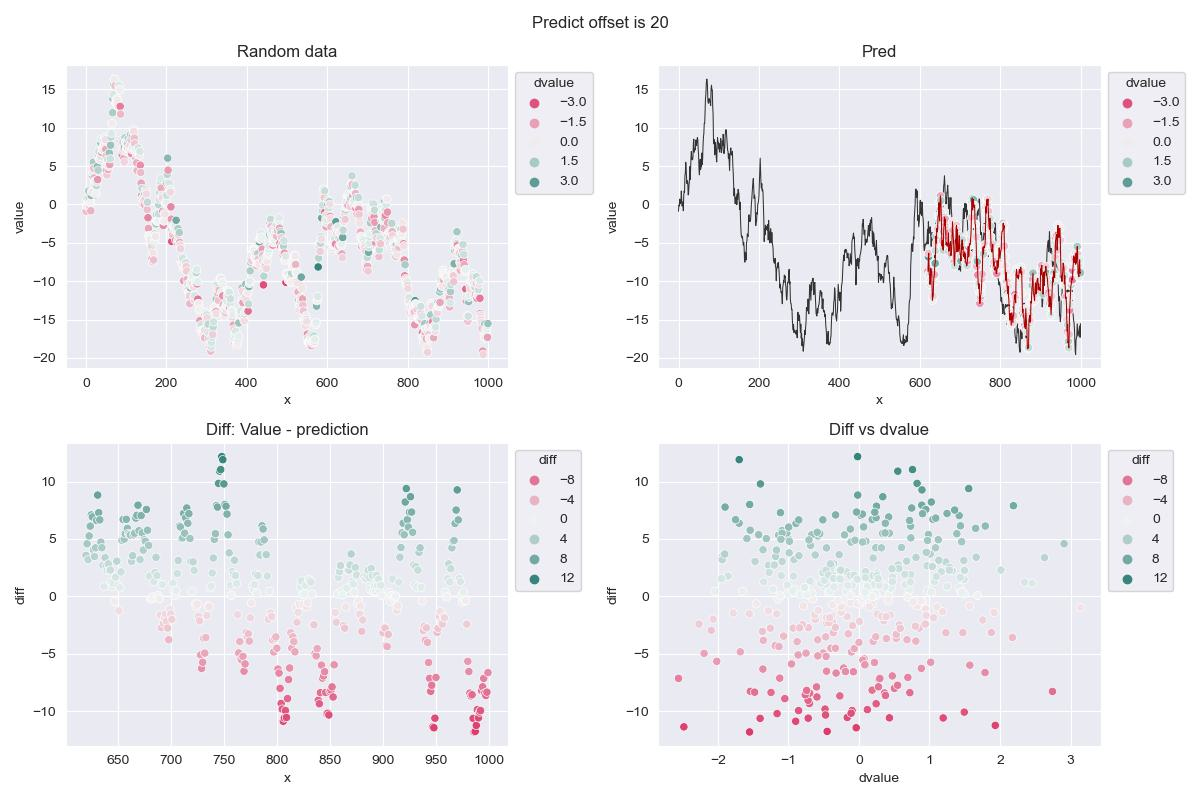
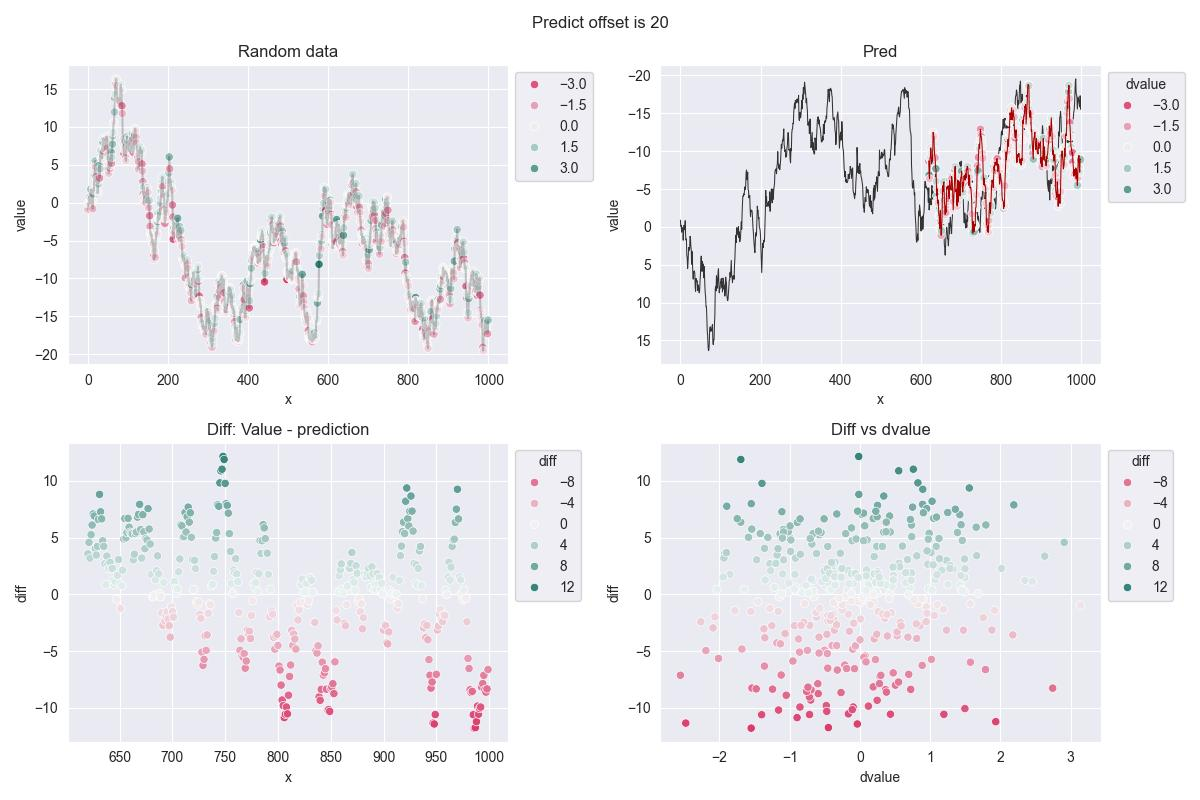
Develop update

diff --git a/Predict-random-walk/gaussian_process.py b/Predict-random-walk/gaussian_process.py
@@ -19,6 +19,7 @@ Functions:
 # %% ---- 2024-05-13 ------------------------
 # Requirements and constants
 import argparse
+import matplotlib
 import contextlib
 
 import numpy as np
@@ -75,6 +76,7 @@ def fit(df: pd.DataFrame):
     df.loc[testing_index, 'meanPred'] = mean_prediction
     df.loc[testing_index, 'stdPred'] = std_prediction
     df.loc[training_index, 'training'] = True
+    df['diff'] = df['value'] - df['meanPred']
 
 
 @contextlib.contextmanager
@@ -92,24 +94,40 @@ def use_ax(ax, title: str = 'Title'):
 # %% ---- 2024-05-13 ------------------------
 # Play ground
 if __name__ == "__main__":
-    logger.info('Started')
+    # --------------------
+    parser = argparse.ArgumentParser(
+        'Gaussian process estimation for random time series')
+    parser.add_argument('-g', '--generate', help='If generate new data flag',
+                        dest='generate_data_flag', action='store_true')
+    parser.add_argument('-s', '--show', help='If show the image',
+                        dest='show_image_flag', action='store_true')
 
-    df = generate_random_series(generate_data_flag=False)
+    option = parser.parse_args()
+
+    # --------------------
+    logger.info(f'Started with {option}')
+
+    df = generate_random_series(generate_data_flag=option.generate_data_flag)
     fit(df)
     print(df)
+
+    k = np.max(df['diff'].map(np.abs))
+    hue_norm = matplotlib.colors.Normalize(-k, k)
 
     # --------------------
     sns.set_style('darkgrid')
     palette = 'RdBu'  # 'Spectral'
     palette = sns.diverging_palette(
         0, 180, s=80, l=50, center='light', as_cmap=True)
-    fig, axs = plt.subplots(1, 2, figsize=(12, 4))
+    fig, axs = plt.subplots(2, 2, figsize=(12, 8))
 
-    with use_ax(axs[0], 'Random data') as ax:
+    with use_ax(axs[0, 0], 'Random data') as ax:
         sns.scatterplot(
-            df, ax=ax, x='x', y='value', hue='dvalue', palette=palette)
+            df, ax=ax, x='x', y='value', hue='dvalue', palette=palette, zorder=1)
+        sns.lineplot(
+            df, ax=ax, x='x', y='value', color='#0003', zorder=2)
 
-    with use_ax(axs[1], 'Pred') as ax:
+    with use_ax(axs[0, 1], 'Pred') as ax:
         sns.lineplot(
             df, ax=ax, x='x', y='value', color='#333', size=1, legend=False, zorder=1)
         sns.scatterplot(
@@ -119,13 +137,26 @@ if __name__ == "__main__":
         _df = df.copy()
         _df['upper'] = _df['meanPred'] + _df['stdPred']
         _df['lower'] = _df['meanPred'] - _df['stdPred']
-        ax.fill_between(_df['x'], _df['upper'],
-                        _df['lower'], alpha=0.5, color='#a00')
+        ax.fill_between(_df['x'].astype(np.float32),
+                        _df['upper'].astype(np.float32),
+                        _df['lower'].astype(np.float32),
+                        alpha=0.3, color='#a00')
         # ax.invert_yaxis()
 
-    fig.tight_layout()
+    with use_ax(axs[1, 0], 'Compare') as ax:
+        sns.lineplot(df, ax=ax, x='x', y='meanPred', color='#a00')
+        sns.lineplot(df, ax=ax, x='x', y='value', color='#03a')
+        ax.legend(labels=['meanPred', None, 'value', None])
 
-    plt.show()
+    with use_ax(axs[1, 1], 'Diff') as ax:
+        sns.scatterplot(df, ax=ax, x='stdPred', y='diff',
+                        hue='diff', palette=palette)
+
+    fig.tight_layout()
+    fig.savefig(root.joinpath('res/gaussian_process.jpg'))
+
+    if option.show_image_flag:
+        plt.show()
 
     logger.info('Finished')
 

diff --git a/Predict-random-walk/regression.py b/Predict-random-walk/regression.py
@@ -109,7 +109,8 @@ def use_ax(ax, title: str = 'Title'):
 # Play ground
 if __name__ == "__main__":
     # --------------------
-    parser = argparse.ArgumentParser('Native regression of random time series')
+    parser = argparse.ArgumentParser(
+        'Native regression for random time series')
     parser.add_argument('-p', '--predict',
                         dest='predict_offset', default=0, type=int)
     parser.add_argument('-g', '--generate', help='If generate new data flag',
@@ -141,7 +142,9 @@ if __name__ == "__main__":
 
     with use_ax(axs[0, 0], 'Random data') as ax:
         sns.scatterplot(
-            df, ax=ax, x='x', y='value', hue='dvalue', palette=palette)
+            df, ax=ax, x='x', y='value', hue='dvalue', palette=palette, zorder=1)
+        sns.lineplot(
+            df, ax=ax, x='x', y='value', color='#0003', zorder=2)
 
     with use_ax(axs[0, 1], 'Pred') as ax:
         sns.lineplot(
